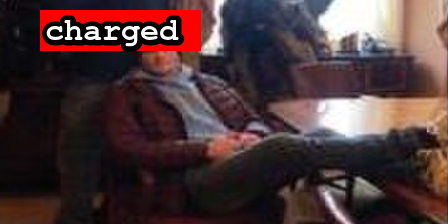
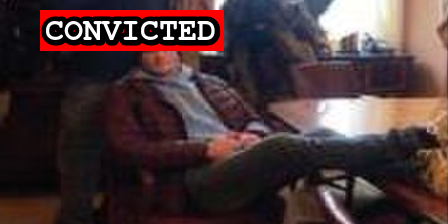
Latest guilty plea

Changed region(s): [[0.0938, 0.0312, 0.5, 0.25]]

diff --git a/docs/_suspects/andrew-ericson.md b/docs/_suspects/andrew-ericson.md
@@ -3,11 +3,11 @@ name: Andrew Ericson
 lastName: Ericson
 aka:
 residence: Oklahoma
-status: Charged
+status: Convicted
 date: 2021-01-22
 charged: 2021-01-22
 indicted:
-convicted: 
+convicted: 2021-09-23
 sentenced: 
 dismissed: 
 deceased:
